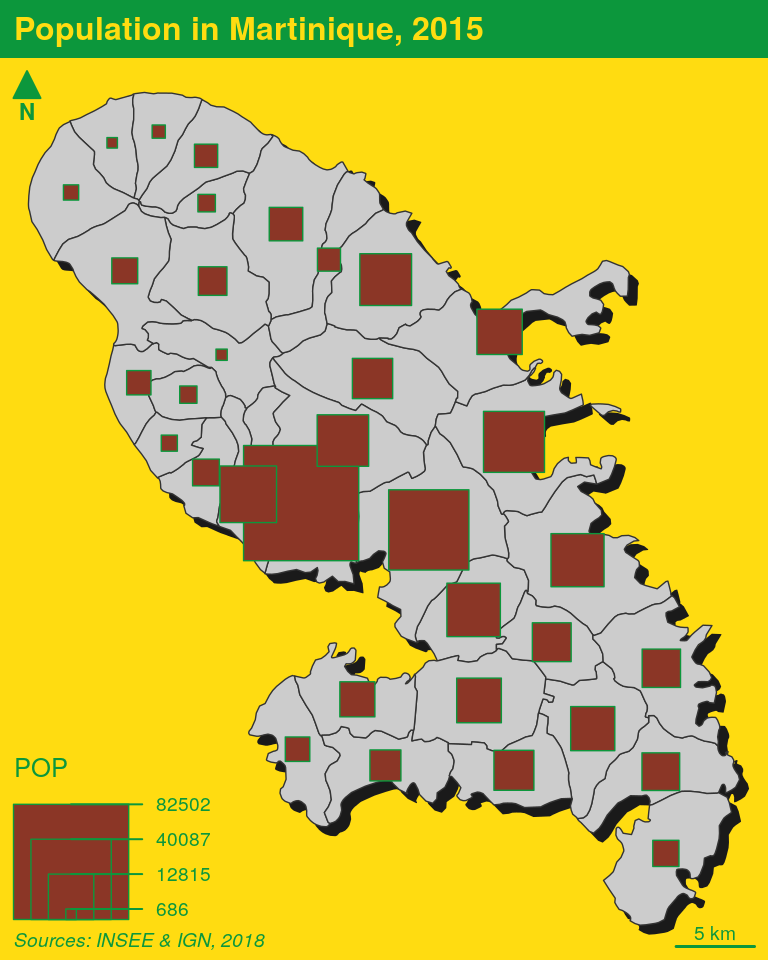
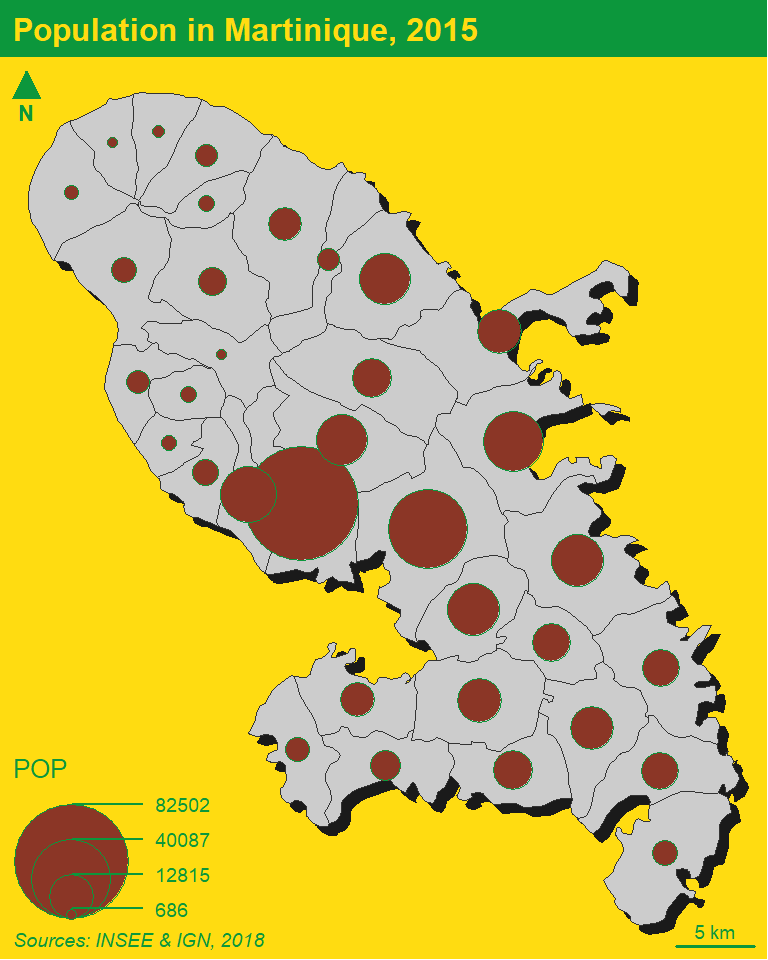
change to circles

diff --git a/index.html b/index.html
@@ -187,7 +187,7 @@ mf_init(x = mtq, theme = &quot;jsk&quot;)
 mf_shadow(mtq, col = &quot;grey10&quot;, add = TRUE)
 mf_map(mtq, add = TRUE)
 # Plot a prop symb map
-mf_map(x = mtq, var = &quot;POP&quot;, type = &quot;prop&quot;, symbol = &quot;square&quot;)
+mf_map(x = mtq, var = &quot;POP&quot;, type = &quot;prop&quot;, symbol = &quot;circle&quot;)
 # Plot a layout elements
 mf_title(&quot;Population in Martinique, 2015&quot;)
 mf_credits(&quot;Sources: INSEE &amp; IGN, 2018&quot;)
@@ -198,7 +198,7 @@ mf_arrow(&#39;topleft&#39;)</pre>
 
 <p><img src="index_files/figure-html/pop-1.png" width="384" /></p>
 
-</article></slide><slide class=""><hgroup><h2>Niveau de vie</h2></hgroup><article  class="smaller" id="niveau-de-vie">
+</article></slide><slide class=""><hgroup><h2>Niveau de vie</h2></hgroup><article  id="niveau-de-vie" class="smaller">
 
 <pre class = 'prettyprint lang-r'># Start a map using a theme and extra margins 
 mf_init(x = mtq, theme = &quot;dark&quot;,
